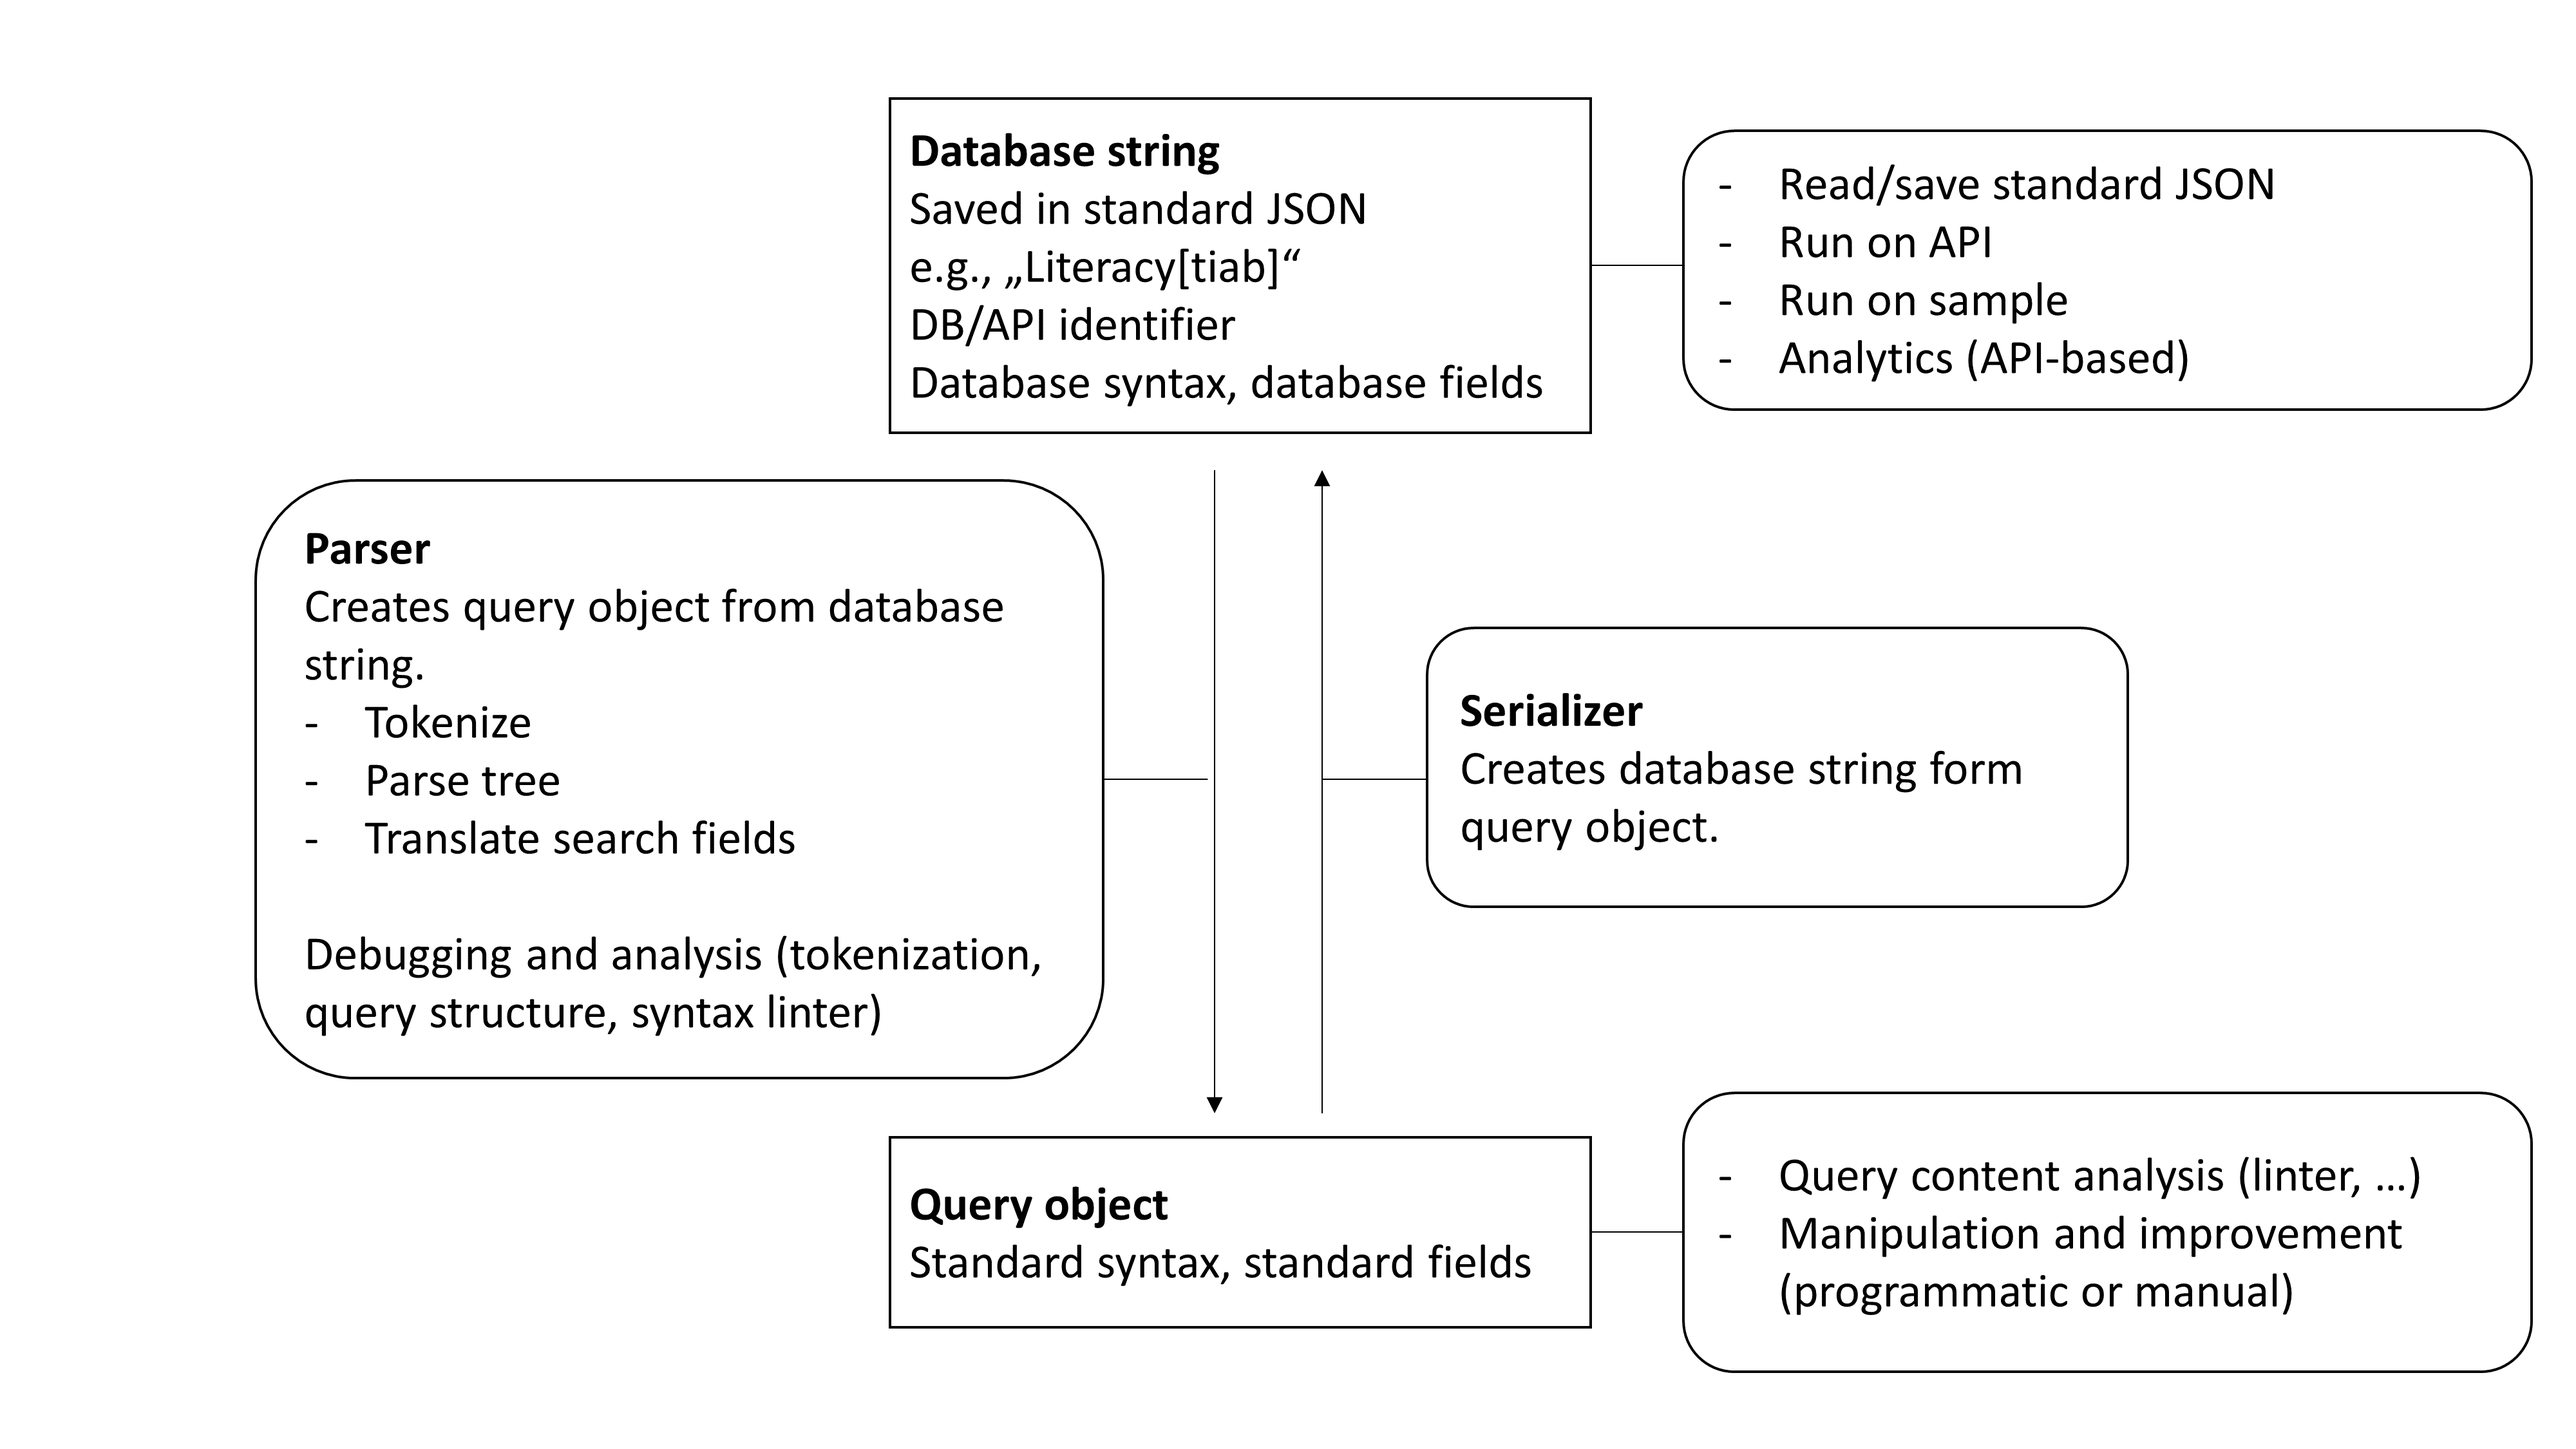
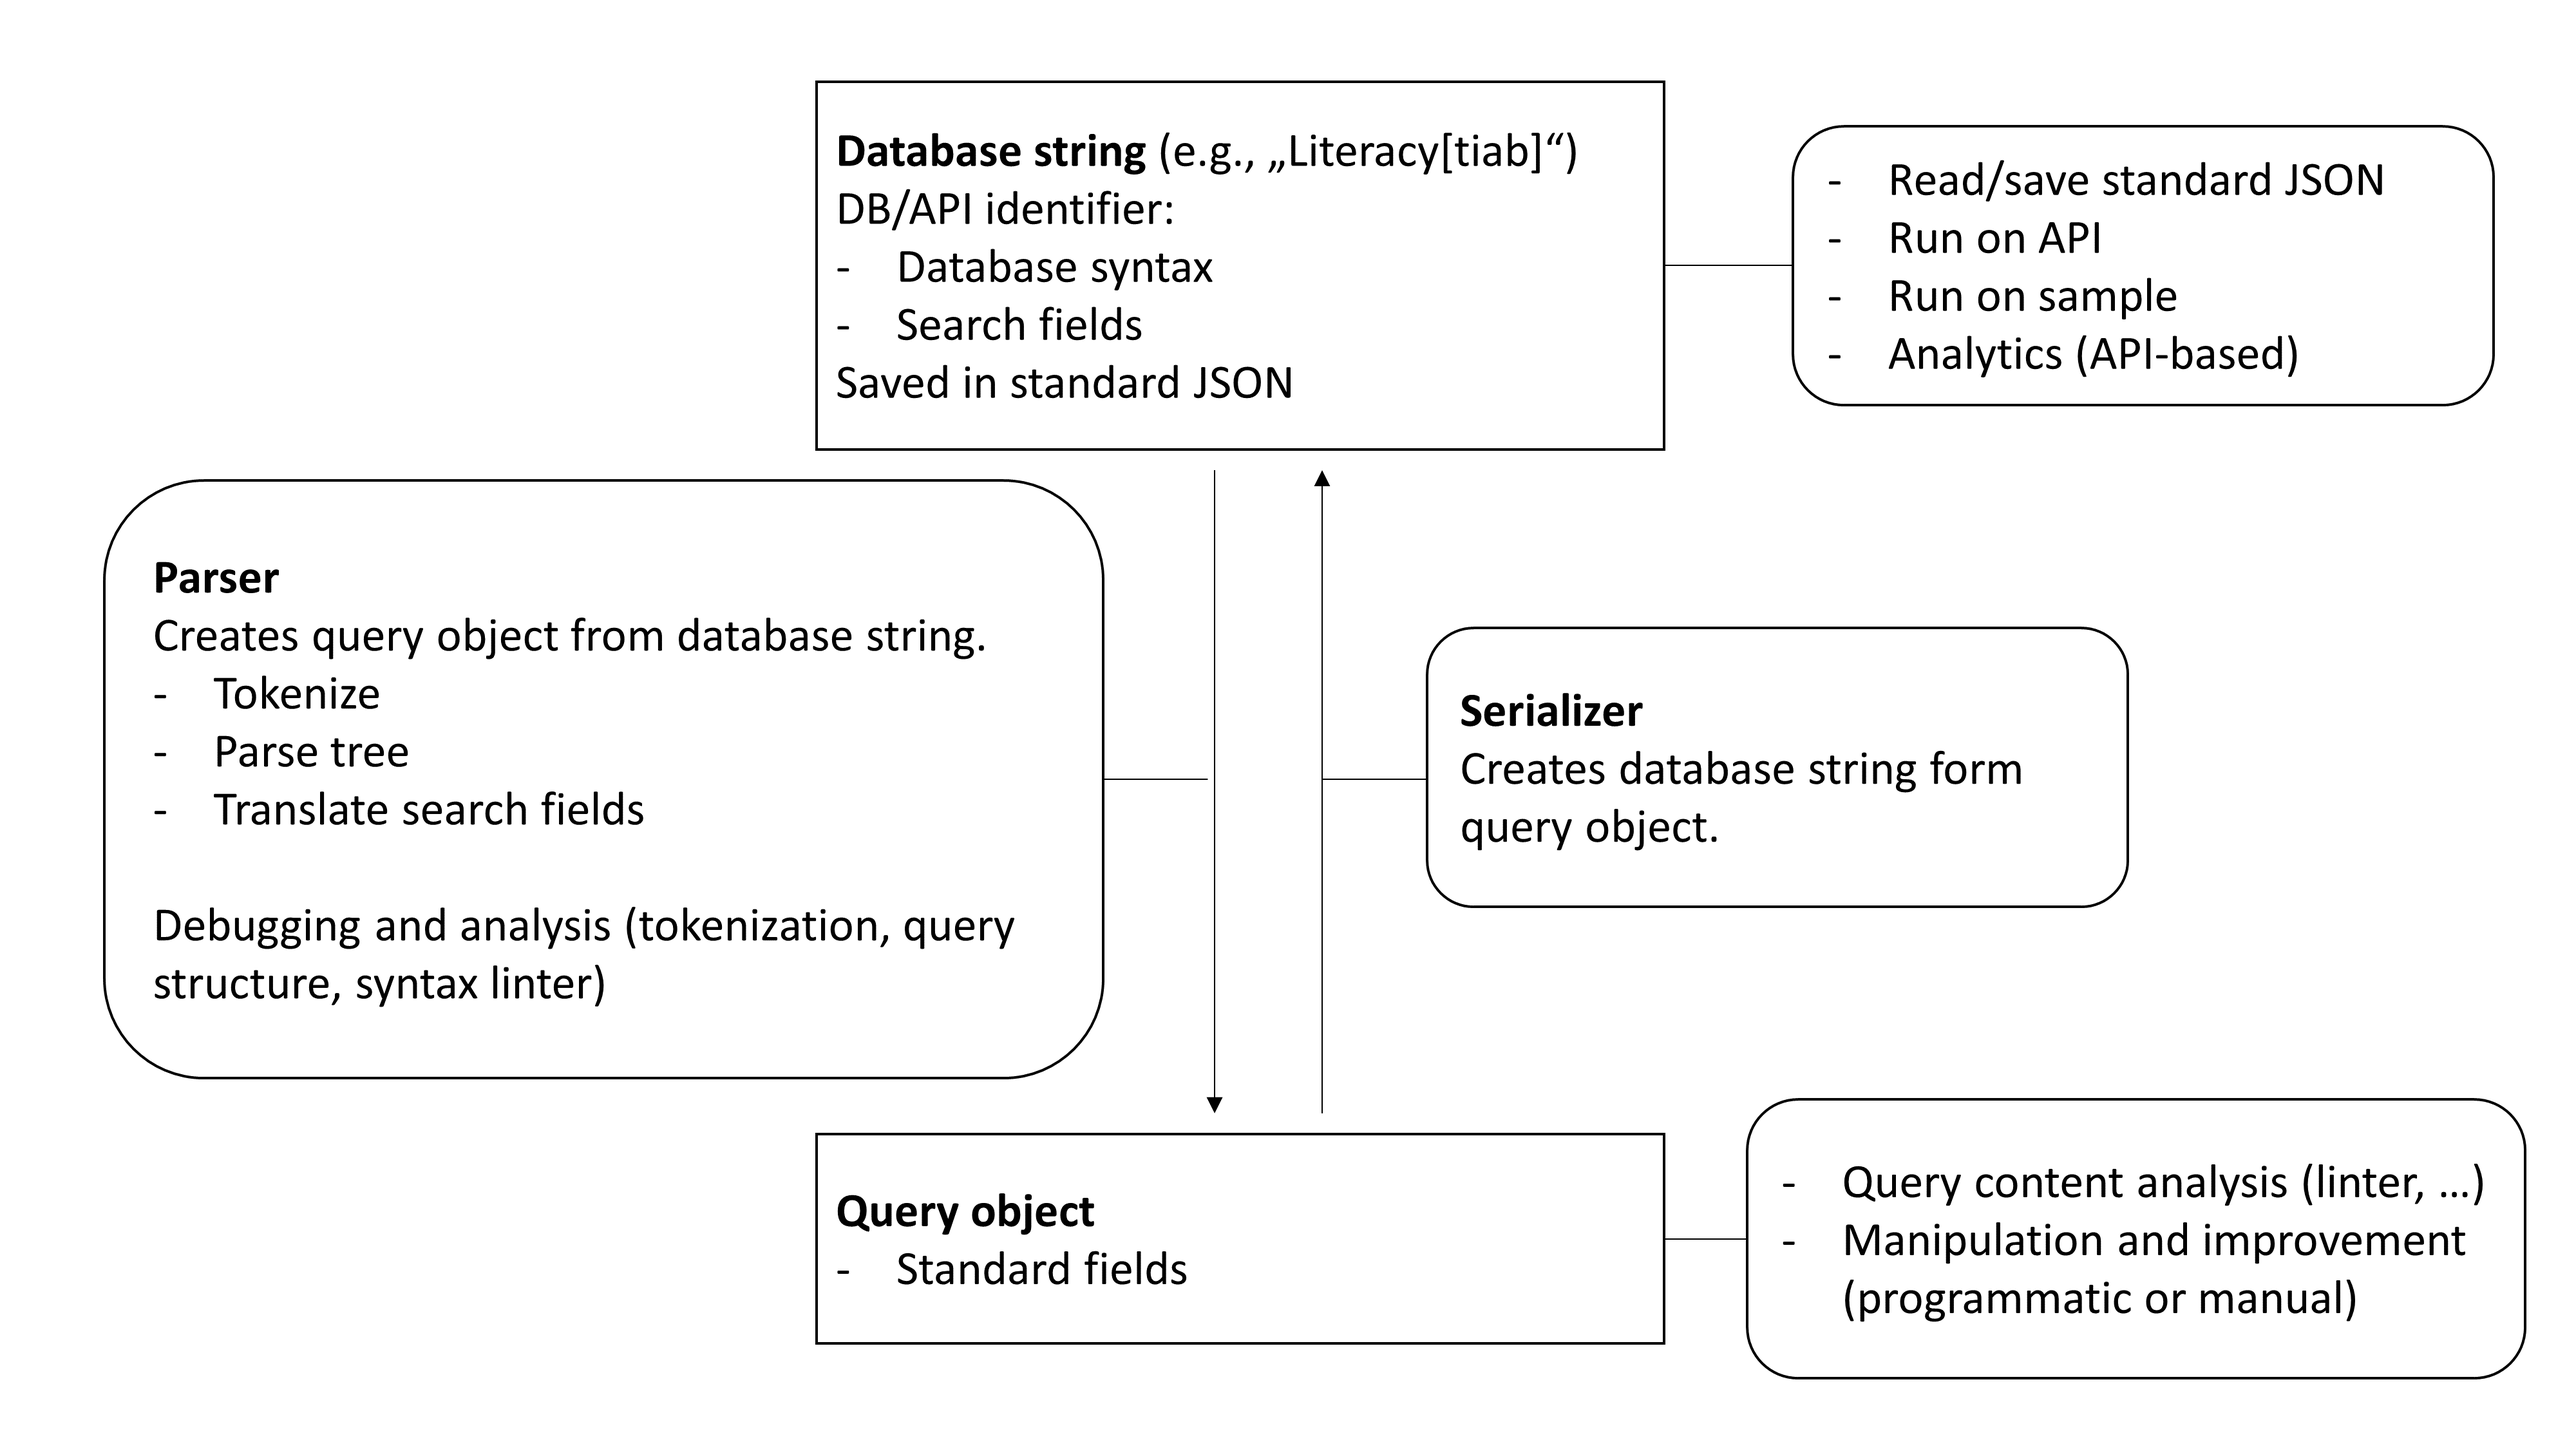
update docs

diff --git a/docs/readme.md b/docs/readme.md
@@ -4,8 +4,6 @@
 
 TODO :
 
-- summarize the parser (https://en.wikipedia.org/wiki/Parsing) and distinguish from serializer
-- clarify processes (source string, ...different syntaxes, query object)
 - distinguish DB Syntax from "Standard syntax" (internal)
 - connection to standard JSON search-file
 - database syntax identifiers
